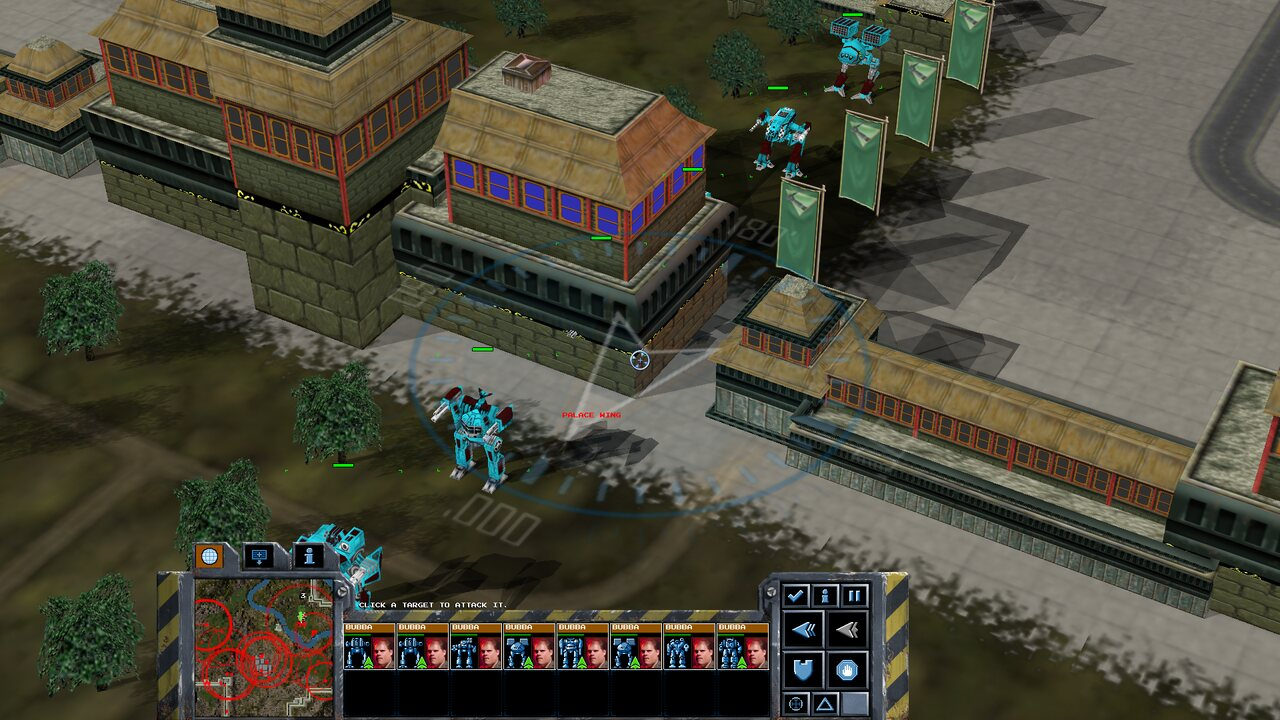
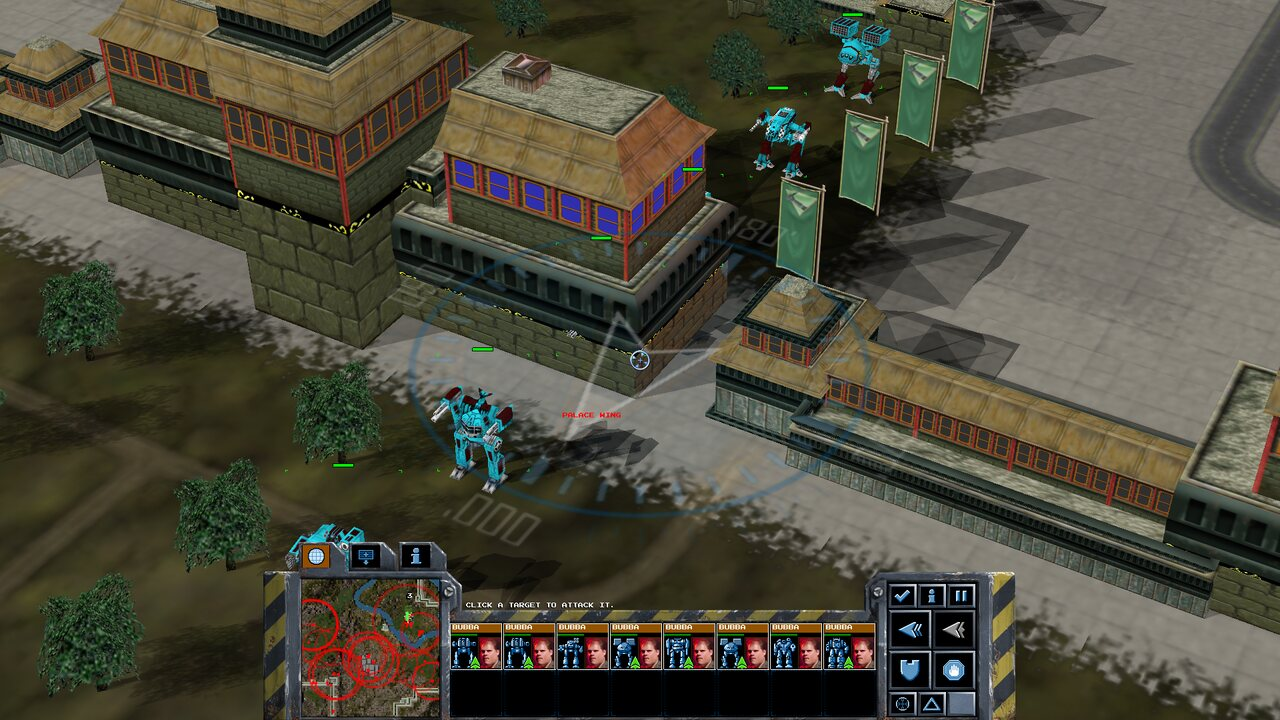
fix: mission HUD centred at any width; Omnitech runs at 1920 (#114)
* fix: mission HUD centred at any width; Omnitech runs at 1920

The HUD's art is a fixed number of pixels and a layout only moves it.
buttonlayout1920.fit carries 1600's xOffset and nothing corrected it, so at
1920x1080 the HUD sat 163 pixels left of centre. Widths with no layout took
that file too: at 2560x1440 it was far over to the left. Omnitech has no 1920
layout, so at 1920x1080 the game stopped with a STOP.

Now the largest layout that fits is used, stepping down when a mod lacks one,
and from 1024 up the HUD is centred from the real width. The pilot video
window stays on the right edge. 1280x720 and 1600x900 are pixel-identical to
before. The logic is in mclib/hud_layout.h, unit tested.

* fix: HUD review fixes; README images all at 1920x1080

The pilot video's caption added the layout offset to coordinates already
absolute, so it was off-screen at 1280 and up. The win or lose banner is now
centred when the layout is narrower than the screen, as with Omnitech at 1920.
README images reshot with the centred HUD, all at one size.

---------

Changed region(s): [[0.125, 0.7333, 0.8125, 1.0]]

diff --git a/code/controlgui.cpp b/code/controlgui.cpp
@@ -30,6 +30,7 @@ controlGui.cpp			: Implementation of the controlGui component.
 #include"objective.h"
 #include"mission.h"
 #include"infowindow.h"
+#include"hud_layout.h"
 
 #include"txmmgr.h"
 
@@ -52,6 +53,9 @@ ButtonData* ControlGui::vehicleData = NULL;
 
 long ControlGui::hiResOffsetX = 0;
 long ControlGui::hiResOffsetY = 0;
+// the pilot video window stays on the screen's right edge, wherever the HUD is
+static long videoOffsetX = 0;
+static long videoStaticShift = 0;
 
 long ControlGui::OBJECTIVESTOP= 0;
 long ControlGui::OBJECTIVESLEFT= 0;
@@ -2493,16 +2497,17 @@ void ControlGui::initStatics( FitIniFile& file )
 	file.readIdLong( "right", 	videoRect.right );
 	file.readIdLong( "top", 	videoRect.top );
 	file.readIdLong( "bottom", 	videoRect.bottom );
-	videoRect.left += hiResOffsetX;
-	videoRect.right += hiResOffsetX;
+	videoRect.left += videoOffsetX;
+	videoRect.right += videoOffsetX;
 
 	file.seekBlock( "VideoTextBox" );
 	file.readIdLong( "left", 	videoTextRect.left );
 	file.readIdLong( "right", 	videoTextRect.right );
 	file.readIdLong( "top", 	videoTextRect.top );
 	file.readIdLong( "bottom", 	videoTextRect.bottom );
-	videoTextRect.left += hiResOffsetX;
-	videoTextRect.right += hiResOffsetX;
+	// absolute in the file, like the frame around the video
+	videoTextRect.left += videoStaticShift;
+	videoTextRect.right += videoStaticShift;
 
 
 	if ( videoInfoCount )
@@ -2511,7 +2516,7 @@ void ControlGui::initStatics( FitIniFile& file )
 		for ( i = 0; i < videoInfoCount; i++ )
 		{
 			sprintf( blockName, "VideoStatic%d", i );
-			videoInfos[i].init( file, blockName );
+			videoInfos[i].init( file, blockName, videoStaticShift );
 		}
 	}
 
@@ -2543,7 +2548,7 @@ void ControlGui::initStatics( FitIniFile& file )
 		for ( i = 0; i < missionStatusInfoCount; i++ )
 		{
 			sprintf( blockName, "ResultsStatic%d", i );
-			missionStatusInfos[i].init( file, blockName );
+			missionStatusInfos[i].init( file, blockName, videoStaticShift / 2 );
 
 		}
 	}
@@ -2554,6 +2559,9 @@ void ControlGui::initStatics( FitIniFile& file )
 	file.readIdLong( "top", missionStatusRect.rect.top );	
 	file.readIdLong( "bottom", missionStatusRect.rect.bottom );	
 	file.readIdLong( "ResultsTextColor", missionStatusRect.color );	
+	// centred on the layout's width, which may be narrower than the screen
+	missionStatusRect.rect.left += videoStaticShift / 2;
+	missionStatusRect.rect.right += videoStaticShift / 2;
 
 	file.seekBlock( "ChatPlayerNameRect" );
 	long left, top, width, height;
@@ -2640,35 +2648,23 @@ void ControlGui::swapResolutions( int resolutionX, int resolutionY )
 {
 	FitIniFile buttonFile;
 	char path[256];
-	strcpy( path, artPath );
-	
-	char fileName[32];
 
-    int y_correction = 0;
-    int x_correction = 0;
-
-	if ( resolutionX == 1920) {
-		strcpy( fileName, "buttonlayout1920.fit" );
-    } else if ( resolutionX == 1600) {
-		strcpy( fileName, "buttonlayout1600.fit" ); 
-    } else if ( resolutionX == 1280) {
-		strcpy( fileName, "buttonlayout1280.fit" ); 
-    } else if ( resolutionX == 1024) {
-		strcpy( fileName, "buttonlayout1024.fit" ); 
-    } else if ( resolutionX == 800 ) {
-		strcpy( fileName, "buttonlayout800.fit" );
-    } else if ( resolutionX == 640 ) {
-		strcpy( fileName, "buttonlayout640.fit" );
-    } else {
-		strcpy( fileName, "buttonlayout1920.fit" );
-    }
-	
-	strcat( path, fileName );
-	if ( NO_ERR != buttonFile.open( path ) )
+	// a mod need not have every layout: Omnitech has no 1920
+	int layoutWidth = hudLayoutWidth( resolutionX );
+	for ( ;; )
 	{
-		char error[256];
-		sprintf( error, "couldn't find the file %s", path );
-		Assert( 0, 0, error );
+		snprintf( path, sizeof( path ), "%sbuttonlayout%d.fit", artPath, layoutWidth );
+		if ( NO_ERR == buttonFile.open( path ) )
+			break;
+		const int smaller = hudLayoutWidth( layoutWidth - 1 );
+		if ( smaller == layoutWidth )
+		{
+			char error[256];
+			sprintf( error, "couldn't find the file %s", path );
+			Assert( 0, 0, error );
+			break;
+		}
+		layoutWidth = smaller;
 	}
 
 	//------------------------------------
@@ -2689,25 +2685,12 @@ void ControlGui::swapResolutions( int resolutionX, int resolutionY )
 		hiResOffsetX = hiResOffsetY = 0;
 	}
 
-	if ( resolutionX == 1920) {
-        y_correction = resolutionY - (768 + hiResOffsetY);
-    } else if ( resolutionX == 1600) {
-        y_correction = resolutionY - (768 + hiResOffsetY);
-    } else if ( resolutionX == 1280) {
-        y_correction = resolutionY - (768 + hiResOffsetY);
-    } else if ( resolutionX == 1024) {
-        y_correction = resolutionY - (768 + hiResOffsetY);
-    } else if ( resolutionX == 800 ) {
-        y_correction = resolutionY - (600 + hiResOffsetY);
-    } else if ( resolutionX == 640 ) {
-        y_correction = resolutionY - (480 + hiResOffsetY);
-    } else {
-        y_correction = resolutionY - (768 + hiResOffsetY);
-    }
-	
-    // add corrections
-	hiResOffsetY += y_correction;
-	hiResOffsetX += x_correction;
+	// the file's own offset is what its video window coordinates assume
+	videoStaticShift = hudRightEdgeShift( resolutionX, layoutWidth );
+	videoOffsetX = hiResOffsetX + videoStaticShift;
+
+	hiResOffsetY = resolutionY - hudBaseHeight( layoutWidth );
+	hiResOffsetX = hudOffsetX( resolutionX, layoutWidth, hiResOffsetX );
 		
 	infoWnd->init( buttonFile );
 

diff --git a/tests/unit/test_hud_layout.cpp b/tests/unit/test_hud_layout.cpp
@@ -1,0 +1,78 @@
+// tests/unit/test_hud_layout.cpp
+//
+// mclib/hud_layout.h: which layout the mission HUD uses at a screen width and
+// where it goes (ControlGui::swapResolutions).
+
+#include "doctest.h"
+
+#include "hud_layout.h"
+
+#include <initializer_list>
+
+TEST_SUITE("HudLayout")
+{
+
+TEST_CASE("hudLayoutWidth: a width with its own layout uses it")
+{
+	for (int width : { 640, 800, 1024, 1280, 1600, 1920 })
+		CHECK(hudLayoutWidth(width) == width);
+}
+
+TEST_CASE("hudLayoutWidth: other widths take the largest that fits")
+{
+	CHECK(hudLayoutWidth(1366) == 1280);
+	CHECK(hudLayoutWidth(1440) == 1280);
+	CHECK(hudLayoutWidth(2560) == 1920);
+	CHECK(hudLayoutWidth(3840) == 1920);
+	CHECK(hudLayoutWidth(900) == 800);
+	CHECK(hudLayoutWidth(320) == 640);
+}
+
+TEST_CASE("hudLayoutWidth: stepping down ends at the smallest")
+{
+	CHECK(hudLayoutWidth(1920 - 1) == 1600);
+	CHECK(hudLayoutWidth(800 - 1) == 640);
+	CHECK(hudLayoutWidth(640 - 1) == 640);
+}
+
+TEST_CASE("hudOffsetX: unchanged where the stock layouts were right")
+{
+	CHECK(hudOffsetX(1024, 1024, 0) == 0);
+	CHECK(hudOffsetX(1280, 1280, 128) == 128);
+	CHECK(hudOffsetX(1600, 1600, 288) == 288);
+}
+
+TEST_CASE("hudOffsetX: centres where they were not")
+{
+	CHECK(hudOffsetX(1920, 1920, 288) == 448);
+	CHECK(hudOffsetX(2560, 1920, 288) == 768);
+	CHECK(hudOffsetX(1366, 1280, 128) == 171);
+	// Omnitech at 1920 falls back to its 1600 layout
+	CHECK(hudOffsetX(1920, 1600, 288) == 448);
+}
+
+TEST_CASE("hudOffsetX: narrow layouts keep their own")
+{
+	CHECK(hudOffsetX(640, 640, 0) == 0);
+	CHECK(hudOffsetX(800, 800, 0) == 0);
+	CHECK(hudOffsetX(900, 800, 0) == 0);
+}
+
+TEST_CASE("hudRightEdgeShift: follows the screen, not the HUD")
+{
+	CHECK(hudRightEdgeShift(1920, 1920) == 0);
+	CHECK(hudRightEdgeShift(1280, 1280) == 0);
+	CHECK(hudRightEdgeShift(2560, 1920) == 640);
+	CHECK(hudRightEdgeShift(1920, 1600) == 320);
+	CHECK(hudRightEdgeShift(1366, 1280) == 86);
+}
+
+TEST_CASE("hudBaseHeight: 1024 and up share one")
+{
+	CHECK(hudBaseHeight(640) == 480);
+	CHECK(hudBaseHeight(800) == 600);
+	CHECK(hudBaseHeight(1024) == 768);
+	CHECK(hudBaseHeight(1920) == 768);
+}
+
+}

diff --git a/mclib/hud_layout.h b/mclib/hud_layout.h
@@ -1,0 +1,43 @@
+// mclib/hud_layout.h
+//
+// Which buttonlayout<width>.fit the in-mission HUD uses at a screen width, and
+// where it goes. The HUD's art is a fixed number of pixels: a layout moves it,
+// nothing scales it. From 1024 up, every layout places it for a 1024-wide
+// centre column, so it can be centred on any screen. The narrower layouts are
+// made for exactly their own width.
+
+#pragma once
+
+// The largest layout no wider than maxWidth, or the smallest there is. To step
+// down when a layout file is missing (Omnitech has no 1920), ask again with
+// one less than the width that failed; the same width back means no more.
+inline int hudLayoutWidth(int maxWidth)
+{
+	static const int widths[] = { 1920, 1600, 1280, 1024, 800 };
+	for (int width : widths)
+		if (width <= maxWidth)
+			return width;
+	return 640;
+}
+
+// Where the HUD's layout coordinates start across the screen. fileOffset is the
+// layout's own xOffset: stock buttonlayout1920.fit has 1600's value in it, so it
+// can't be trusted from 1024 up.
+inline long hudOffsetX(int screenWidth, int layoutWidth, long fileOffset)
+{
+	return layoutWidth >= 1024 ? (screenWidth - 1024) / 2 : fileOffset;
+}
+
+// Things anchored to the screen's right edge (the pilot video window) are at
+// fixed places for the layout's own width: how far to move them on this screen.
+inline long hudRightEdgeShift(int screenWidth, int layoutWidth)
+{
+	return screenWidth - layoutWidth;
+}
+
+// The HUD's coordinates end this far down, so the screen's height less this is
+// where they start: it sits on the bottom edge at any height.
+inline long hudBaseHeight(int layoutWidth)
+{
+	return layoutWidth == 640 ? 480 : layoutWidth == 800 ? 600 : 768;
+}

diff --git a/planning/PROGRESS.md b/planning/PROGRESS.md
@@ -537,6 +537,7 @@ change, not as a bug fix.
 
 Newest first. `YYYY-MM-DD: what (commit or PR)`.
 
+- 2026-11-04: Mission HUD centred at any width (branch `hud-centre`). `buttonlayout1920.fit` has 1600's `xOffset`, so at 1920x1080 the HUD sat 163 pixels left of centre, and worse on wider screens; other widths took that file too. `mclib/hud_layout.h` (unit tested): the largest layout that fits, centred from 1024 up, the pilot video window kept on the right edge. Omnitech, with no 1920 layout, stopped at 1920x1080; it now steps down to 1600. 1280x720 and 1600x900 are pixel-identical to before. Checked on GL at 1366, 1920 and 2560 and on GLES at 1920; clicks and the video window by hand (`HARDWARE-TESTS.md`). README images reshot at 1920x1080. Scaling the HUD for 1440p and 4K is not done.
 - 2026-11-04: Full release packages, game data included (branch `release-full`), as approved by the owner: jobs `gamedata` (cache shared with `smoke.yml`, no movies) and `full` in `release.yml`, `scripts/package_full.sh`. The Linux x64 and Pi packages are smoke-tested unpacked with only the runtime libraries; first time a test runs what players download. The Windows zip needs a hand check (`HARDWARE-TESTS.md`). The new test found `INSTALL.md` missing `libopengl0`, so the Linux package would not start on a clean machine; fixed.
 - 2026-11-04: Multiplayer phase 0 (branch `mp-phase0`): `-nethost <players>` runs the host's side of the multiplayer code with no network and no clients; `smoke.sh --nethost`, `bench/nethost_m08.fit` (a battle with damage on). `mc2_m01` to `mc2_m10` and the battle clean under ASan + UBSan on desktop GL, single-player state hashes match `pi-port`. Fixed: mission ended on its first frame, full weapon fire queue was Fatal, turret with a neutral parent, `1 << -1` from the force group icons; a host's camera no longer decides withdrawals, building and turret updates, or turret and vehicle gestures. Open: the same battle from two camera positions still differs from frame 282 (positions match until one hit outcome, consistent with cosmetic code sharing the RNG, not proven); no run has had a turret fire; withdrawing units can stop short of the map edge on a host; `Team::home` is not audited. No network yet.
 - 2026-11-04: Plan for macOS on Apple silicon: `future-features/MACOS.md` (branch `macos-plan`); nothing built.

diff --git a/README.md b/README.md
@@ -19,7 +19,8 @@ Touch controllers.
 | ![A desert battle in the Omnitech Desert Fox campaign](media/omnitech.jpg) | ![Mechs standing among temple-like buildings and banners in mission 22](media/town.jpg) |
 | *The fan-made [MechCommander Omnitech](https://www.moddb.com/mods/mechcommander-omnitech) and its Desert Fox campaign* | *A quieter moment: mechs among the buildings of mission 22* |
 
-Scripted battles from the desktop build (`scripts/bench.sh --scenario`). The
+Scripted battles from the desktop build at 1920x1080
+(`scripts/bench.sh --scenario`). The
 game data, and Omnitech's, are not in this repository.
 
 The main branch is called `pi-port` and the repository `mc2-pi` for
@@ -163,6 +164,8 @@ Conventions for contributors and AI agents are in [CLAUDE.md](CLAUDE.md) and
 
 - No networking: the multiplayer screens are stubs (the menu button is disabled).
 - Sound: no doppler (stereo panning works).
+- The in-mission HUD is a fixed number of pixels, so it is centred but small on
+  1440p and 4K screens.
 - WSLg's GPU driver shows a white screen with desktop GL; use
   `LIBGL_ALWAYS_SOFTWARE=1`.
 

diff --git a/planning/HARDWARE-TESTS.md b/planning/HARDWARE-TESTS.md
@@ -15,6 +15,14 @@ Renderers: **GL** is a desktop GL build (`MC2_GLES=OFF`), **GLES** a GLES build
 
 ## In the game (any PC with a display)
 
+- [ ] **HUD at 1920x1080 and 2560x1440** (`hud-centre`). The HUD is centred. Click
+      the force icons, minimap and command buttons: each reacts where it is
+      drawn. A pilot video shows at the top right, framed, not off-screen. GL or
+      GLES. CI and screenshots show the position, not the clicks or the video. The
+      video's caption now sits under it, on screen; at 1920 it is off to the left.
+      The win or lose banner is centred, also with Omnitech at 1920.
+- [ ] **Omnitech at 1920x1080** (`hud-centre`). A mission plays, on its 1600 layout,
+      with the same checks.
 - [ ] **Multiplayer host in a window** (#110). `./mc2 -mission mc2_m08 -nethost 2`:
       the mission loads and plays, units fight, and moving the camera away
       changes nothing visible when you come back. Do not expect a clean quit:
